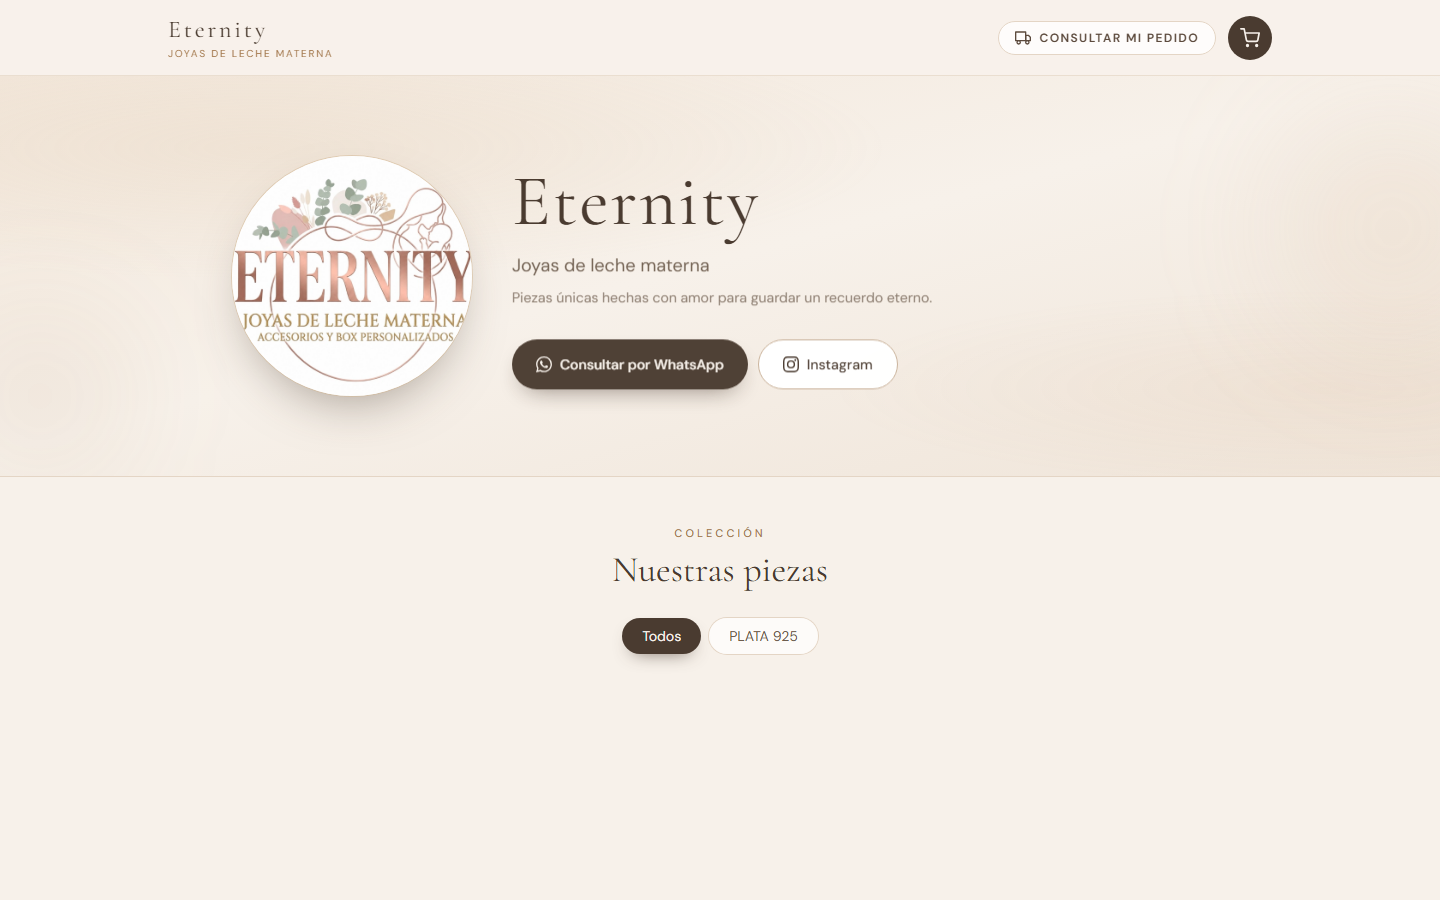
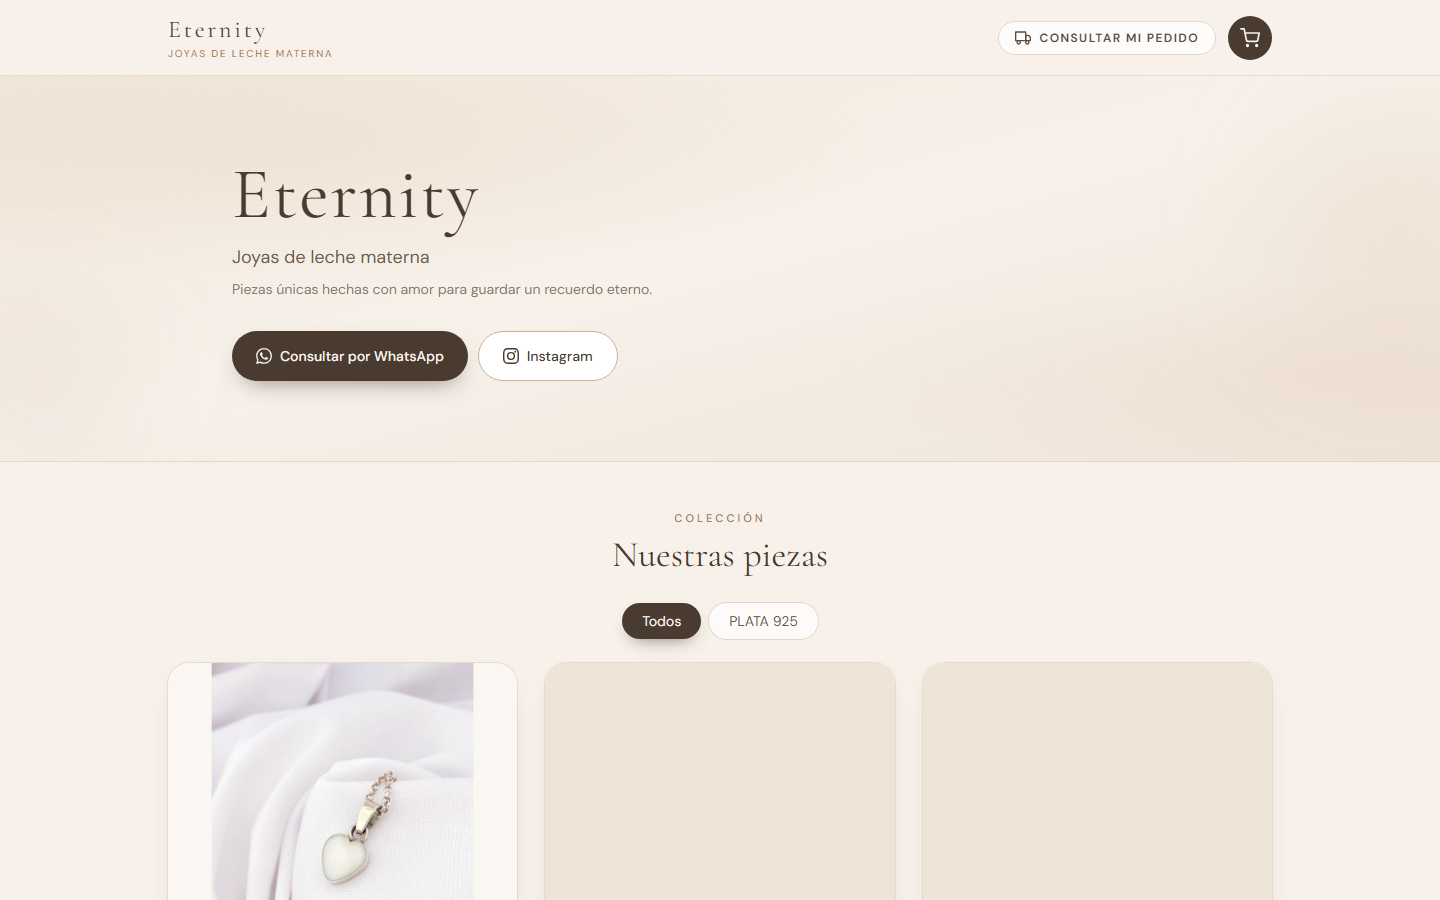
Add Python, AI work, UTN, email, and fix project preview images.

diff --git a/src/data/content.ts b/src/data/content.ts
@@ -3,29 +3,36 @@ export const profile = {
   shortName: "Diego Diaz",
   role: "Desarrollador Full Stack",
   location: "Paraná, Entre Ríos, Argentina",
+  email: "diazdiegognicok@gmail.com",
   linkedin: "https://www.linkedin.com/in/diego-nicol%C3%A1s-diaz-966153227/",
   github: "https://github.com/diazdiegok",
   headline:
-    "Desarrollo aplicaciones web y sistemas de bases de datos para empresas, con foco en SQL Server, JavaScript y React.",
+    "Desarrollo aplicaciones web, sistemas de bases de datos y herramientas con Python e IA para entornos corporativos.",
 };
 
 export const about = {
   heading: "Sobre mí",
   paragraphs: [
     "Desarrollador full stack en Paraná, Entre Ríos. Trabajo en aplicaciones web, bases de datos y soporte de sistemas en un entorno corporativo.",
-    "En Geller Abogados desarrollo procedimientos en SQL Server para el procesamiento de datos financieros y doy soporte al área de sistemas. Formación en Full Stack y bases de datos (CoderHouse).",
+    "En Geller Abogados desarrollo procedimientos en SQL Server para el procesamiento de datos financieros, aplicativos de optimización integrados con IA y doy soporte al área de sistemas.",
+  ],
+  education: [
+    "Tecnicatura en Programación — UTN",
+    "Full Stack y bases de datos — CoderHouse",
   ],
 };
 
 export const experience = [
   {
     period: "2024 — Actualidad",
-    title: "Desarrollador SQL Server",
+    title: "Desarrollador SQL Server, Python e IA",
     org: "Geller Abogados",
     place: "Paraná, Entre Ríos",
     points: [
       "Procedimientos y funciones en SQL Server para el procesamiento de datos de entidades financieras.",
-      "Normalización y carga de archivos Excel y TXT para el análisis diario de carteras.",
+      "Desarrollo de aplicativos internos de optimización de procesos, integrados con IA.",
+      "Herramientas en Python para automatizar cargas, conciliación y análisis de información operativa.",
+      "Scripts y tableros para reducir tiempos de trabajo sobre archivos Excel y TXT.",
       "Consultas, reportes y modelado de datos para la operación del estudio.",
     ],
   },
@@ -46,6 +53,7 @@ export const skills = [
     group: "Lenguajes",
     items: [
       { name: "SQL / T-SQL", level: "Avanzado" },
+      { name: "Python", level: "Intermedio" },
       { name: "JavaScript", level: "Intermedio" },
       { name: "TypeScript", level: "Intermedio" },
       { name: "HTML / CSS", level: "Avanzado" },
@@ -77,7 +85,7 @@ export const skills = [
       { name: "Git / GitHub", level: "Intermedio" },
       { name: "Vercel", level: "Intermedio" },
       { name: "REST APIs", level: "Intermedio" },
-      { name: "Mercado Pago", level: "Básico" },
+      { name: "IA aplicada", level: "Intermedio" },
     ],
   },
 ];
@@ -212,7 +220,7 @@ export const projects: Project[] = [
     description:
       "Base de datos de testing: modelo relacional, tablas, claves foráneas y consultas SQL de prueba.",
     repo: "https://github.com/diazdiegok/gellerabogados-mysql",
-    preview: "/projects/geller-mysql.svg",
+    preview: "/projects/geller-mysql.png",
   },
 ];
 

diff --git a/src/components/Contact.tsx b/src/components/Contact.tsx
@@ -9,6 +9,11 @@ export function Contact() {
         <pre className="mt-6 overflow-x-auto rounded-xl border border-line bg-[#010409] p-5 font-mono text-[13px] leading-7 sm:text-[14px]">
           <span className="text-cmt"># Paraná, Entre Ríos</span>
           {"\n"}
+          <span className="text-gold">$</span> echo{" "}
+          <a href={`mailto:${profile.email}`} className="text-str underline-offset-2 hover:underline">
+            {profile.email}
+          </a>
+          {"\n"}
           <span className="text-gold">$</span> open{" "}
           <a href={profile.linkedin} target="_blank" rel="noreferrer" className="text-str underline-offset-2 hover:underline">
             linkedin
@@ -21,10 +26,16 @@ export function Contact() {
         </pre>
         <div className="mt-6 flex flex-wrap gap-3">
           <a
+            href={`mailto:${profile.email}`}
+            className="rounded-md bg-gold px-5 py-2.5 font-mono text-[13px] text-ink hover:bg-gold-soft"
+          >
+            mail
+          </a>
+          <a
             href={profile.linkedin}
             target="_blank"
             rel="noreferrer"
-            className="rounded-md bg-gold px-5 py-2.5 font-mono text-[13px] text-ink hover:bg-gold-soft"
+            className="rounded-md border border-line px-5 py-2.5 font-mono text-[13px] text-paper hover:border-gold/50"
           >
             linkedin
           </a>

diff --git a/src/components/Typewriter.tsx b/src/components/Typewriter.tsx
@@ -27,12 +27,17 @@ const lines: Seg[][] = [
   ],
   [
     { text: "  stack: ", cls: "text-prop" },
-    { text: '["SQL Server", "JavaScript", "React"]', cls: "text-str" },
+    { text: '["SQL Server", "Python", "JavaScript", "React"]', cls: "text-str" },
     { text: ",", cls: "text-muted" },
   ],
   [
     { text: "  focus: ", cls: "text-prop" },
-    { text: '"web + bases de datos"', cls: "text-str" },
+    { text: '"web + datos + IA"', cls: "text-str" },
+    { text: ",", cls: "text-muted" },
+  ],
+  [
+    { text: "  email: ", cls: "text-prop" },
+    { text: '"diazdiegognicok@gmail.com"', cls: "text-str" },
     { text: ",", cls: "text-muted" },
   ],
   [{ text: "};", cls: "text-paper" }],

diff --git a/src/components/Projects.tsx b/src/components/Projects.tsx
@@ -16,7 +16,11 @@ export function Projects() {
                 <img
                   src={p.preview}
                   alt={`Vista previa de ${p.title}`}
-                  className="h-full w-full object-cover object-top"
+                  className={
+                    p.slug === "geller-mysql"
+                      ? "h-full w-full object-contain bg-[#0b1220]"
+                      : "h-full w-full object-cover object-top"
+                  }
                 />
               </div>
               <div className="flex flex-1 flex-col p-5">

diff --git a/src/components/Footer.tsx b/src/components/Footer.tsx
@@ -5,7 +5,9 @@ export function Footer() {
     <footer className="border-t border-line py-6">
       <div className="mx-auto flex max-w-6xl flex-col gap-2 px-5 font-mono text-[12px] text-cmt sm:flex-row sm:items-center sm:justify-between lg:px-8">
         <p>{`© ${new Date().getFullYear()} ${profile.shortName}`}</p>
-        <p>diazdiegok</p>
+        <a href={`mailto:${profile.email}`} className="hover:text-gold">
+          {profile.email}
+        </a>
       </div>
     </footer>
   );

diff --git a/src/components/Hero.tsx b/src/components/Hero.tsx
@@ -50,6 +50,12 @@ export function Hero() {
             >
               linkedin
             </a>
+            <a
+              href={`mailto:${profile.email}`}
+              className="rounded-md border border-line px-5 py-2.5 font-mono text-[13px] text-paper hover:border-gold/50"
+            >
+              mail
+            </a>
           </div>
         </div>
         <div className="mx-auto w-full max-w-[360px]">

diff --git a/src/components/Navbar.tsx b/src/components/Navbar.tsx
@@ -53,12 +53,10 @@ export function Navbar() {
           ))}
         </nav>
         <a
-          href={profile.github}
-          target="_blank"
-          rel="noreferrer"
+          href={`mailto:${profile.email}`}
           className="rounded-md border border-line px-3 py-1.5 font-mono text-[12px] text-paper hover:border-gold/50"
         >
-          github
+          mail
         </a>
       </div>
       <nav

diff --git a/src/components/About.tsx b/src/components/About.tsx
@@ -11,6 +11,13 @@ export function About() {
             <p key={p}>{p}</p>
           ))}
         </div>
+        <ul className="mt-6 space-y-1 font-mono text-[13px] text-paper">
+          {about.education.map((item) => (
+            <li key={item}>
+              <span className="text-gold">▸</span> {item}
+            </li>
+          ))}
+        </ul>
       </div>
     </section>
   );
